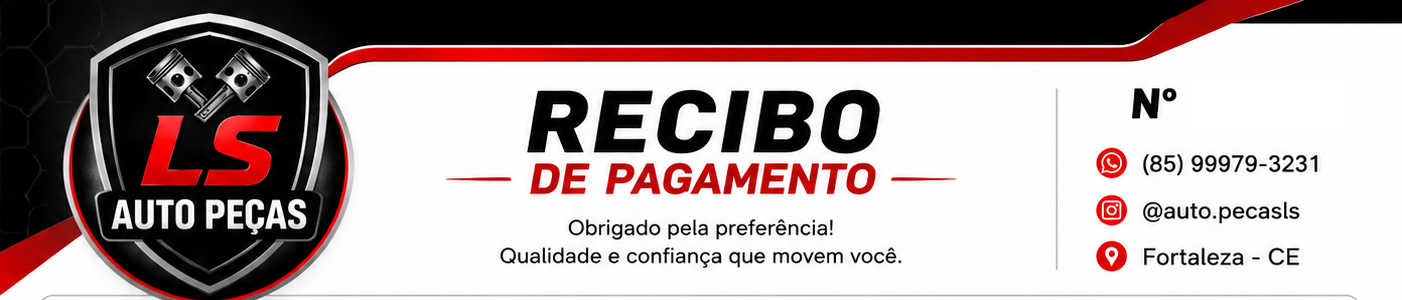
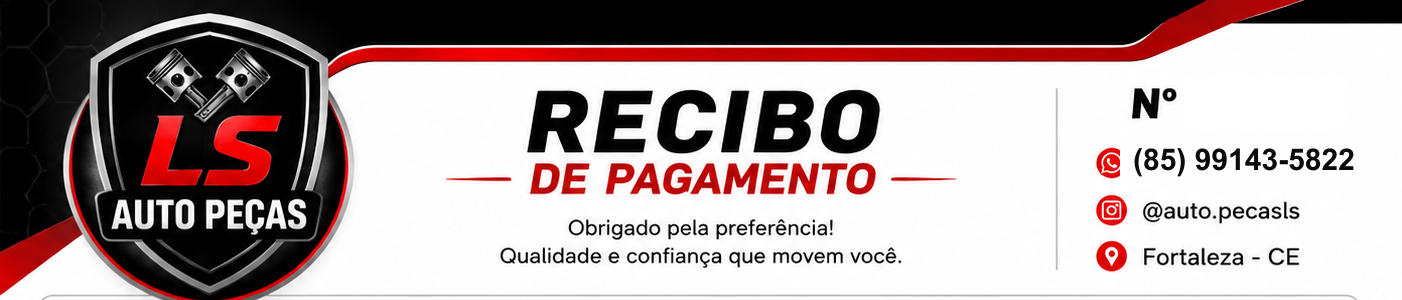
Atualiza telefone do recibo e adiciona carimbo de PAGO
O cabeçalho do recibo tinha o telefone antigo desenhado na própria
imagem; foi substituído por (85) 99143-5822. Também foi adicionado um
carimbo vermelho "PAGO" sobre o campo de assinatura da Auto Peças LS.

Changed region(s): [[0.7974, 0.48, 0.9815, 0.6]]

diff --git a/components/sales/sale-receipt-template.tsx b/components/sales/sale-receipt-template.tsx
@@ -397,12 +397,32 @@ export const SaleReceiptTemplate = forwardRef<
           </span>
         </div>
 
-        <div style={{ textAlign: "center" }}>
+        <div style={{ position: "relative", textAlign: "center" }}>
           <div style={{ borderBottom: "1.5px solid #111", height: 40 }} />
           <span style={{ fontSize: 14, fontWeight: 600, color: "#333" }}>
             Assinatura / Carimbo
           </span>
           <div style={{ fontSize: 14, fontWeight: 900 }}>AUTO PEÇAS LS</div>
+
+          <div
+            style={{
+              position: "absolute",
+              top: "-10px",
+              right: "6px",
+              transform: "rotate(-14deg)",
+              border: "3px solid " + RED,
+              borderRadius: 8,
+              padding: "4px 14px",
+              color: RED,
+              fontSize: 22,
+              fontWeight: 900,
+              letterSpacing: 2,
+              opacity: 0.85,
+              pointerEvents: "none",
+            }}
+          >
+            PAGO
+          </div>
         </div>
       </div>
 
